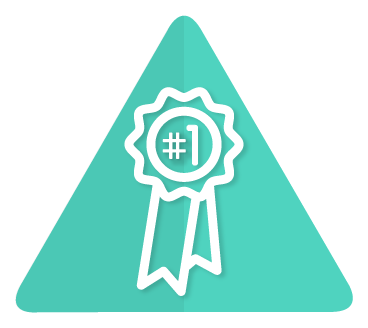
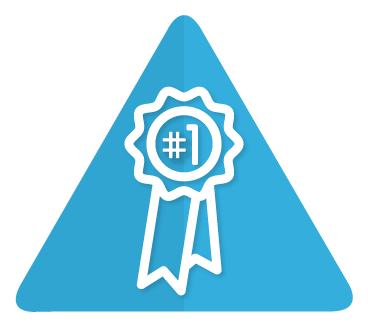
imágenes e inscripciones actualizadas

diff --git a/actividades.html b/actividades.html
@@ -41,7 +41,7 @@
             <li><a href="premios.html">premios</a></li>
             <li><a href="cronograma.html">cronograma</a></li>
             <li><a href="reglamentos.html">reglamentos</a></li>
-            <li><a href="https://drive.google.com/folderview?id=0B59oxWQayRFKM2l1MjFJeXJzZjg&usp=sharing" target="_blank">maratones</a></li>
+            <li><a href="https://docs.google.com/document/d/14gd0cFv0s4vMrrUdeup45sIerzCRZaFUXr-GSFcUeXQ" target="_blank">maratones</a></li>
         </ul>
         
        <!--Footer-->

diff --git a/index.html b/index.html
@@ -40,7 +40,7 @@
         <li><a href="premios.html">premios</a></li>
         <li><a href="cronograma.html">cronograma</a></li>
         <li><a href="reglamentos.html">reglamentos</a></li>
-        <li><a href="https://drive.google.com/folderview?id=0B59oxWQayRFKM2l1MjFJeXJzZjg&usp=sharing" target="_blank">maratones</a></li>
+        <li><a href="https://docs.google.com/document/d/14gd0cFv0s4vMrrUdeup45sIerzCRZaFUXr-GSFcUeXQ" target="_blank">maratones</a></li>
     </ul>
         
         <!--&lt;!&ndash;Footer&ndash;&gt;-->

diff --git a/cronograma.html b/cronograma.html
@@ -36,7 +36,7 @@
         <li><a href="premios.html">premios</a></li>
         <li><a href="cronograma.html">cronograma</a></li>
         <li><a href="reglamentos.html">reglamentos</a></li>
-        <li><a href="https://drive.google.com/folderview?id=0B59oxWQayRFKM2l1MjFJeXJzZjg&usp=sharing" target="_blank">maratones</a></li>
+        <li><a href="https://docs.google.com/document/d/14gd0cFv0s4vMrrUdeup45sIerzCRZaFUXr-GSFcUeXQ" target="_blank">maratones</a></li>
     </ul>
         
         <!--Footer-->

diff --git a/premios.html b/premios.html
@@ -45,7 +45,7 @@
         <li><a href="premios.html">premios</a></li>
         <li><a href="cronograma.html">cronograma</a></li>
         <li><a href="reglamentos.html">reglamentos</a></li>
-        <li><a href="https://drive.google.com/folderview?id=0B59oxWQayRFKM2l1MjFJeXJzZjg&usp=sharing" target="_blank">maratones</a></li>
+        <li><a href="https://docs.google.com/document/d/14gd0cFv0s4vMrrUdeup45sIerzCRZaFUXr-GSFcUeXQ" target="_blank">maratones</a></li>
     </ul>
         
         <!--Footer-->

diff --git a/reglamentos.html b/reglamentos.html
@@ -156,7 +156,7 @@
                 <div class="ch-item reglamento">
                     <div class="tituloR"><p id="pMaratones">Maratones de Programaci&oacute;n</p></div>
                       <div class="ch-info">
-				        <h3><a href="" target="_blank">Leer reglamento</a></h3>
+				        <h3><a href="" target="_blank">Leer Leer reglamento</a></h3>
 			         </div>
 		          </div>
 	           </li>

diff --git a/css/style.css b/css/style.css
@@ -79,8 +79,10 @@ a
 a:hover
 {
     /*color:#fdc570;*/
-    color:#64c1e6;
+    /*color:#64c1e6;*/
+    color:#e5e5e5;
 }
+
 
 p
 {
